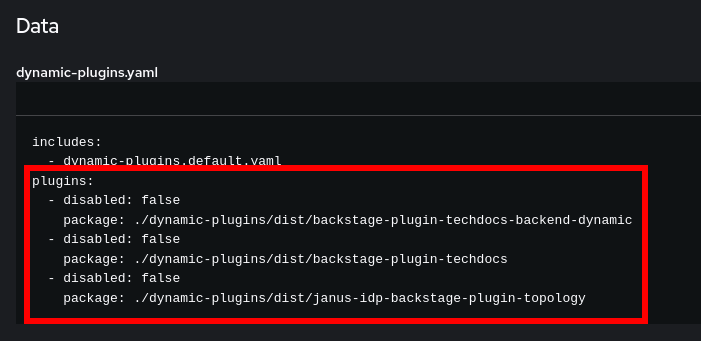
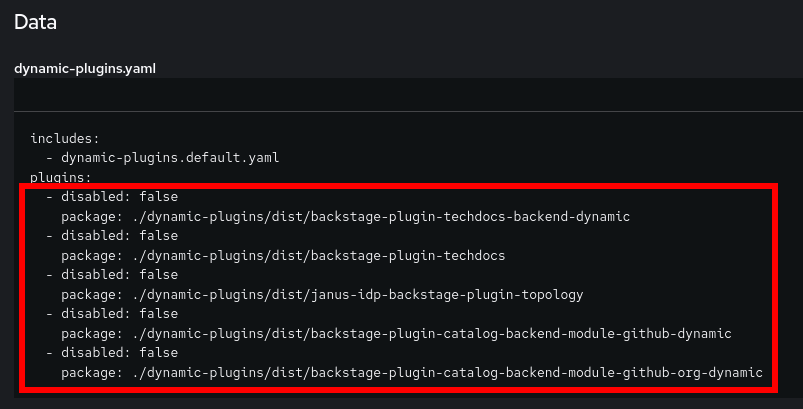
RHDHPAI-100: Provision GitHub org users under RHDH Install (#38)
* github user provision config

* GITHUB_ORGANIZATION env var added to default env file and docs

* add github catalog plugins

* add catalog app config instructions to docs

* Update docs/rhdh/INSTALLER-PROVISIONED.md

* feedback: rename GITHUB_ORGANIZATION to GITHUB__ORG__NAME

* review feedback: hostname variables

* feedback update: fix GITHUB__HOST typo

---------

diff --git a/docs/rhdh/INSTALLER-PROVISIONED.md b/docs/rhdh/INSTALLER-PROVISIONED.md
@@ -50,6 +50,23 @@ kubectl -n $NAMESPACE patch secret ai-rh-developer-hub-env \
     \"GITHUB__APP__WEBHOOK__URL\": \"$(echo '<github_app_webhook_url>' | base64)\",
     \"GITHUB__APP__WEBHOOK__SECRET\": \"$(echo '<github_app_webhook_secret>' | base64)\",
     \"GITHUB__APP__PRIVATE_KEY\": \"$(base64 '</path/to/app/pk>')\",
+    \"GITHUB__ORG__NAME\": \"$(echo '<github_org_name>' | base64)\",
+    \"GITOPS__GIT_TOKEN\": \"$(echo '<git_pat>' | base64)\"}}"
+```
+
+**GitHub Enterprise**
+
+```sh
+kubectl -n $NAMESPACE patch secret ai-rh-developer-hub-env \
+    --type 'merge' \
+    -p="{\"data\": {\"GITHUB__APP__ID\": \"$(echo '<github_app_id>' | base64)\",
+    \"GITHUB__APP__CLIENT__ID\": \"$(echo '<github_app_client_id>' | base64)\",
+    \"GITHUB__APP__CLIENT__SECRET\": \"$(echo '<github_app_client_secret>' | base64)\",
+    \"GITHUB__APP__WEBHOOK__URL\": \"$(echo '<github_app_webhook_url>' | base64)\",
+    \"GITHUB__APP__WEBHOOK__SECRET\": \"$(echo '<github_app_webhook_secret>' | base64)\",
+    \"GITHUB__APP__PRIVATE_KEY\": \"$(base64 '</path/to/app/pk>')\",
+    \"GITHUB__HOST\": \"$(echo '<github_hostname>' | base64)\",
+    \"GITHUB__ORG__NAME\": \"$(echo '<github_org_name>' | base64)\",
     \"GITOPS__GIT_TOKEN\": \"$(echo '<git_pat>' | base64)\"}}"
 ```
 
@@ -63,7 +80,18 @@ kubectl -n $NAMESPACE patch secret ai-rh-developer-hub-env \
     \"GITLAB__TOKEN\": \"$(echo '<gitlab_pat>' | base64)\"}}"
 ```
 
-**Both**
+**GitLab Self-hosted**
+
+```sh
+kubectl -n $NAMESPACE patch secret ai-rh-developer-hub-env \
+    --type 'merge' \
+    -p="{\"data\": {\"GITLAB__APP__CLIENT__ID\": \"$(echo '<gitlab_app_client_id>' | base64)\",
+    \"GITLAB__APP__CLIENT__SECRET\": \"$(echo '<gitlab_app_client_secret>' | base64)\",
+    \"GITLAB__TOKEN\": \"$(echo '<gitlab_pat>' | base64)\",
+    \"GITLAB__HOST\": \"$(echo '<gitlab_hostname>' | base64)\"}}"
+```
+
+**GitHub & GitLab**
 
 ```sh
 kubectl -n $NAMESPACE patch secret ai-rh-developer-hub-env \
@@ -74,6 +102,7 @@ kubectl -n $NAMESPACE patch secret ai-rh-developer-hub-env \
     \"GITHUB__APP__WEBHOOK__URL\": \"$(echo '<github_app_webhook_url>' | base64)\",
     \"GITHUB__APP__WEBHOOK__SECRET\": \"$(echo '<github_app_webhook_secret>' | base64)\",
     \"GITHUB__APP__PRIVATE_KEY\": \"$(base64 '</path/to/app/pk>')\",
+    \"GITHUB__ORG__NAME\": \"$(echo '<github_org_name>' | base64)\",
     \"GITOPS__GIT_TOKEN\": \"$(echo '<git_pat>' | base64)\",
     \"GITLAB__APP__CLIENT__ID\": \"$(echo '<gitlab_app_client_id>' | base64)\",
     \"GITLAB__APP__CLIENT__SECRET\": \"$(echo '<gitlab_app_client_secret>' | base64)\",
@@ -87,6 +116,32 @@ The base app config only contains what is needed to run Developer Hub at a worka
 The starting point of this app config is contained within [developer-hub-app-config.yaml](../../resources/developer-hub-app-config.yaml), this will be customized below depending on the desired integration.
 
 ##### Step 2.1: GitHub Integration
+
+To enable the GitHub catalog for provisioning users and resources you will need to add the following under `.catalog` within the app config:
+
+```yaml
+providers:
+  github:
+    providerId:
+      organization: ${GITHUB__ORG__NAME}
+      schedule:
+        frequency:
+          minutes: 30
+        initialDelay:
+          seconds: 15
+        timeout:
+          minutes: 15
+  githubOrg:
+    githubUrl: https://${GITHUB__HOST}
+    orgs: [ "${GITHUB__ORG__NAME}" ]
+    schedule:
+      frequency:
+        minutes: 30
+      initialDelay:
+        seconds: 15
+      timeout:
+        minutes: 15
+```
 
 For enabling GitHub for authentication you will need to add the following under `.auth` within the app config:
 
@@ -103,7 +158,7 @@ For enabling GitHub integration you will need to add the following under the roo
 ```yaml
 integrations:
   github:
-    - host: github.com
+    - host: ${GITHUB__HOST}
       apps:
         - appId: ${GITHUB__APP__ID}
           clientId: ${GITHUB__APP__CLIENT__ID}
@@ -136,7 +191,7 @@ For enabling GitLab integration you will need to add the following under the roo
 ```yaml
 integrations:
   gitlab:
-    - host: github.com
+    - host: ${GITLAB__HOST}
       token: ${GITLAB__TOKEN}
 ```
 

diff --git a/docs/rhdh/PRE-EXISTING.md b/docs/rhdh/PRE-EXISTING.md
@@ -95,6 +95,26 @@ kubectl -n $NAMESPACE create secret generic ai-rh-developer-hub-env \
     --from-literal=GITHUB__APP__WEBHOOK__URL=$(echo '<github_app_webhook_url>' | base64) \
     --from-literal=GITHUB__APP__WEBHOOK__SECRET=$(echo '<github_app_webhook_secret>' | base64) \
     --from-file=GITHUB__APP__PRIVATE_KEY='<path-to-app-pk>' \
+    --from-literal=GITHUB__ORG__NAME=$(echo '<github_org_name>' | base64) \
+    --from-literal=GITOPS__GIT_TOKEN=$(echo '<git_pat>' | base64)
+```
+
+**GitHub Enterprise**
+
+```sh
+K8S_SA_SECRET_NAME=$(kubectl get secrets -n "$NAMESPACE" -o name | grep rhdh-kubernetes-plugin-token- | cut -d/ -f2 | head -1)
+K8S_SA_TOKEN=$(kubectl -n $NAMESPACE get secret $K8S_SA_SECRET_NAME -o yaml | yq '.data.token' -M -I=0)
+kubectl -n $NAMESPACE create secret generic ai-rh-developer-hub-env \
+    --from-literal=NODE_TLS_REJECT_UNAUTHORIZED=$(echo "0" | base64) \
+    --from-literal=K8S_SA_TOKEN=${K8S_SA_TOKEN} \
+    --from-literal=GITHUB__APP__ID=$(echo '<github_app_id>' | base64) \
+    --from-literal=GITHUB__APP__CLIENT__ID=$(echo '<github_app_client_id>' | base64) \
+    --from-literal=GITHUB__APP__CLIENT__SECRET=$(echo '<github_app_client_secret>' | base64) \
+    --from-literal=GITHUB__APP__WEBHOOK__URL=$(echo '<github_app_webhook_url>' | base64) \
+    --from-literal=GITHUB__APP__WEBHOOK__SECRET=$(echo '<github_app_webhook_secret>' | base64) \
+    --from-file=GITHUB__APP__PRIVATE_KEY='<path-to-app-pk>' \
+    --from-literal=GITHUB__HOST=$(echo '<github_hostname>' | base64) \
+    --from-literal=GITHUB__ORG__NAME=$(echo '<github_org_name>' | base64) \
     --from-literal=GITOPS__GIT_TOKEN=$(echo '<git_pat>' | base64)
 ```
 
@@ -111,7 +131,21 @@ kubectl -n $NAMESPACE create secret generic ai-rh-developer-hub-env \
     --from-literal=GITLAB__TOKEN=$(echo '<gitlab_pat>' | base64)
 ```
 
-**Both**
+**GitLab Self-hosted**
+
+```sh
+K8S_SA_SECRET_NAME=$(kubectl get secrets -n "$NAMESPACE" -o name | grep rhdh-kubernetes-plugin-token- | cut -d/ -f2 | head -1)
+K8S_SA_TOKEN=$(kubectl -n $NAMESPACE get secret $K8S_SA_SECRET_NAME -o yaml | yq '.data.token' -M -I=0)
+kubectl -n $NAMESPACE create secret generic ai-rh-developer-hub-env \
+    --from-literal=NODE_TLS_REJECT_UNAUTHORIZED=$(echo "0" | base64) \
+    --from-literal=K8S_SA_TOKEN=${K8S_SA_TOKEN} \
+    --from-literal=GITLAB__APP__CLIENT__ID=$(echo '<gitlab_app_client_id>' | base64) \
+    --from-literal=GITLAB__APP__CLIENT__SECRET=$(echo '<gitlab_app_client_secret>' | base64) \
+    --from-literal=GITLAB__TOKEN=$(echo '<gitlab_pat>' | base64) \
+    --from-literal=GITLAB__HOST=$(echo '<gitlab_hostname>' | base64)
+```
+
+**GitHub & GitLab**
 
 ```sh
 K8S_SA_SECRET_NAME=$(kubectl get secrets -n "$NAMESPACE" -o name | grep rhdh-kubernetes-plugin-token- | cut -d/ -f2 | head -1)
@@ -125,6 +159,7 @@ kubectl -n $NAMESPACE create secret generic ai-rh-developer-hub-env \
     --from-literal=GITHUB__APP__WEBHOOK__URL=$(echo '<github_app_webhook_url>' | base64) \
     --from-literal=GITHUB__APP__WEBHOOK__SECRET=$(echo '<github_app_webhook_secret>' | base64) \
     --from-file=GITHUB__APP__PRIVATE_KEY='<path-to-app-pk>' \
+    --from-literal=GITHUB__ORG__NAME=$(echo '<github_org_name>' | base64) \
     --from-literal=GITOPS__GIT_TOKEN=$(echo '<git_pat>' | base64) \
     --from-literal=GITLAB__APP__CLIENT__ID=$(echo '<gitlab_app_client_id>' | base64) \
     --from-literal=GITLAB__APP__CLIENT__SECRET=$(echo '<gitlab_app_client_secret>' | base64) \

diff --git a/docs/EXTRA-CONFIG.md b/docs/EXTRA-CONFIG.md
@@ -28,6 +28,10 @@ By running `configure.sh` you have the option of giving your input via CLI or by
         - User set GitHub App Webhook Secret
     - `GITHUB__APP__PRIVATE_KEY`
         - GitHub App Private Key
+    - `GITHUB__HOST`
+        - Hostname to GitHub service (defaults to `github.com`, alternative to `GITLAB__HOST`)
+    - `GITHUB__ORG__NAME`
+        - Name of the tied GitHub organization
     - `GITOPS__GIT_TOKEN`
         - Git Personal Access Token (alternative to `GITLAB__TOKEN`)
     - `GITLAB__APP__CLIENT__ID`
@@ -36,6 +40,8 @@ By running `configure.sh` you have the option of giving your input via CLI or by
         - GitLab App Client Secret (alternative to `GITHUB__APP__CLIENT__SECRET`)
     - `GITLAB__TOKEN`
         - GitLab Personal Access Token (alternative to `GITOP__GIT_TOKEN`)
+    - `GITLAB__HOST`
+        - Hostname to GitLab service (defaults to `gitlab.com`, alternative to `GITHUB__HOST`)
     - `QUAY__DOCKERCONFIGJSON`
         - Docker Config JSON File with Authentication Credentials for a given [Quay.io](https://quay.io) Account
     - `QUAY__API_TOKEN`

diff --git a/docs/APP-SETUP.md b/docs/APP-SETUP.md
@@ -52,11 +52,13 @@
 5. In the `Developer Settings` of your newly created GitHub App, navigate to `Install App` and install it to your Organization.
 
 **Note:** It is helpful as part of this step to store the following information somewhere safe:
+- GitHub Organization Name
 - GitHub App ID
 - Client ID
 - Client secret
 - Webhook secret
 - Private key
+- GitHub hostname (if GitHub Enterprise instance)
 
 ### App Permissions
 
@@ -115,6 +117,7 @@ Helpful reading can be found [here](https://backstage.io/docs/integrations/githu
    - `openid`
    - `profile`
    - `email`
+- Keep note of your GitLab hostname (if Self-hosted)
 
 **Note:** Store your `Application ID` and `Secret` somewhere safe.
 
